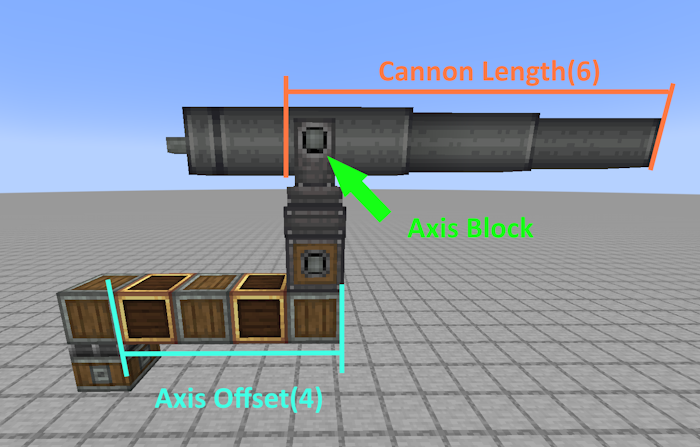
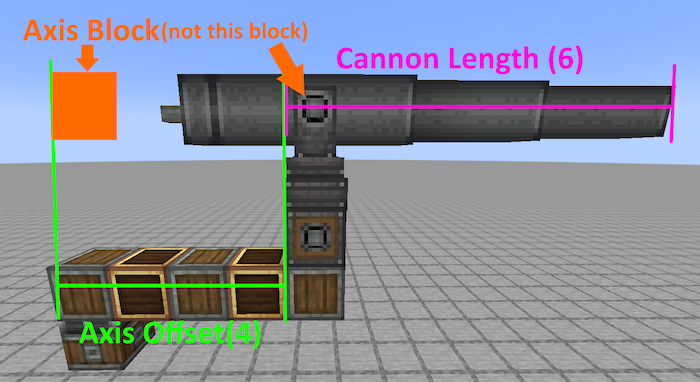
minor Fix
fixed Help sentnce and image
fixed error calculation
changed variable name

diff --git a/script.js b/script.js
@@ -50,13 +50,13 @@ function anglesFinder(V0, targetDistance, targetHeight, cannonLength, axisOffset
             let Vx = (V0 / 20) * Math.cos(angleRad);
             let Vy = (V0 / 20) * Math.sin(angleRad);
             let heightOffset = cannonLength * Math.sin(angleRad)
-            let horizontalDistance = targetDistance - (cannonLength * Math.cos(angleRad) + axisOffset);
-            let timeInAir = Math.abs(Math.log(1 - horizontalDistance / (100 * Vx)) / Math.log(0.99));
-            let verticalPosition = 100 * (Vy + 5) * (1 - (0.99 ** timeInAir)) - 5 * timeInAir
+            let x = targetDistance - (cannonLength * Math.cos(angleRad) + axisOffset);
+            let timeInAir = Math.abs(Math.log(1 - x / (100 * Vx)) / Math.log(0.99));
+            let y = 100 * (Vy + 5) * (1 - (0.99 ** timeInAir)) - 5 * timeInAir
             
             
-            if (Math.abs((targetHeight + heightOffset) - verticalPosition) < toleranceRange) { 
-                let error = Math.abs(Math.abs(targetHeight - verticalPosition));
+            if (Math.abs(targetHeight - y + heightOffset) < toleranceRange) { 
+                let error = Math.abs(Math.abs(targetHeight - y + heightOffset));
                 if (error < minError) { 
                     minError = error;
                     bestAngle = angleDeg;

diff --git a/index.html b/index.html
@@ -67,11 +67,12 @@
     <button popovertarget="help">Help</button>
 
     <div id="help" popover>
-        <p><strong id="helpColor">Cannon Coordinate</strong> is coordinate of pitch axis block.</p>
+        <p><strong id="helpColor">Cannon Coordinate</strong> is coordinate of axis block.</p>
+        <p><strong>Axis block</strong> is a cannon block above the <strong>yaw axis</strong>, not pitch axis. </p>
         <p><strong id="helpColor">Cannon Length</strong> is length of cannon.</p> 
         <p>(Axis block included, so this value should be more than 1.)</p>
         <p><strong id="helpColor">Axis offset</strong> is the distance of yaw axis and pitch axis.</p>
-        <p>(Yaw Axis excluded, so if yaw axis is under the pitch axis, it should be 0.)</p>
+        <p>(Yaw Axis excluded, so if yaw axis is under the <strong>pitch axis</strong>, it should be 0. In this case, the <strong>axis block</strong> is the <strong>pitch axis</strong>.)</p>
         <p>This value would be useful when you are using <strong>Create:Interactive</strong>.</p>
         <p><strong id="helpColor">Target Coordinate</strong> is coordinate of the target block.</p>
         <p>It is a good idea to increase or decrease <strong>Y</strong> if your shell didn't hit the target.</p>
